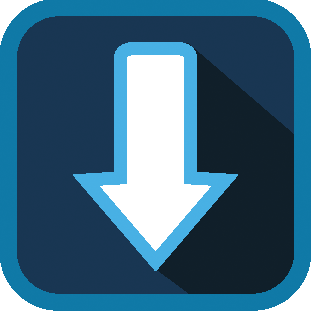
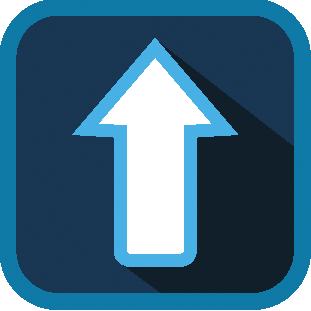
change font button and remove backward button

diff --git a/scripts/mygame.js b/scripts/mygame.js
@@ -42,11 +42,12 @@ se.setResources = function () {
   this.loader.addResource('water_2', 'water/water_2.png', 'image');
 
   //sprites buttons: movements
-  this.loader.addResource(
+  /*this.loader.addResource(
     'button_backward',
     'buttons/button_backward.png',
     'image'
-  );
+  );*/
+  
   this.loader.addResource(
     'button_forward',
     'buttons/button_forward.png',
@@ -121,11 +122,12 @@ se.setResources = function () {
     'buttons/button_forward_mini.png',
     'image'
   );
-  this.loader.addResource(
+  /*this.loader.addResource(
     'mini_backward',
     'buttons/button_backward_mini.png',
     'image'
-  );
+  );*/
+  
   this.loader.addResource('mini_left', 'buttons/button_left_mini.png', 'image');
   this.loader.addResource(
     'mini_right',
@@ -257,7 +259,7 @@ function setLevel(arrmap, commands) {
   marginbt = 10;
 
   //FIXO DE TODOS OS LEVELS
-  ['forward', 'backward', 'right', 'left'].forEach(createCommandsButton);
+  ['forward', 'left', 'right'].forEach(createCommandsButton);
 
   //VARIAVEL POR LEVELS
   commands.forEach(createCommandsButton);
